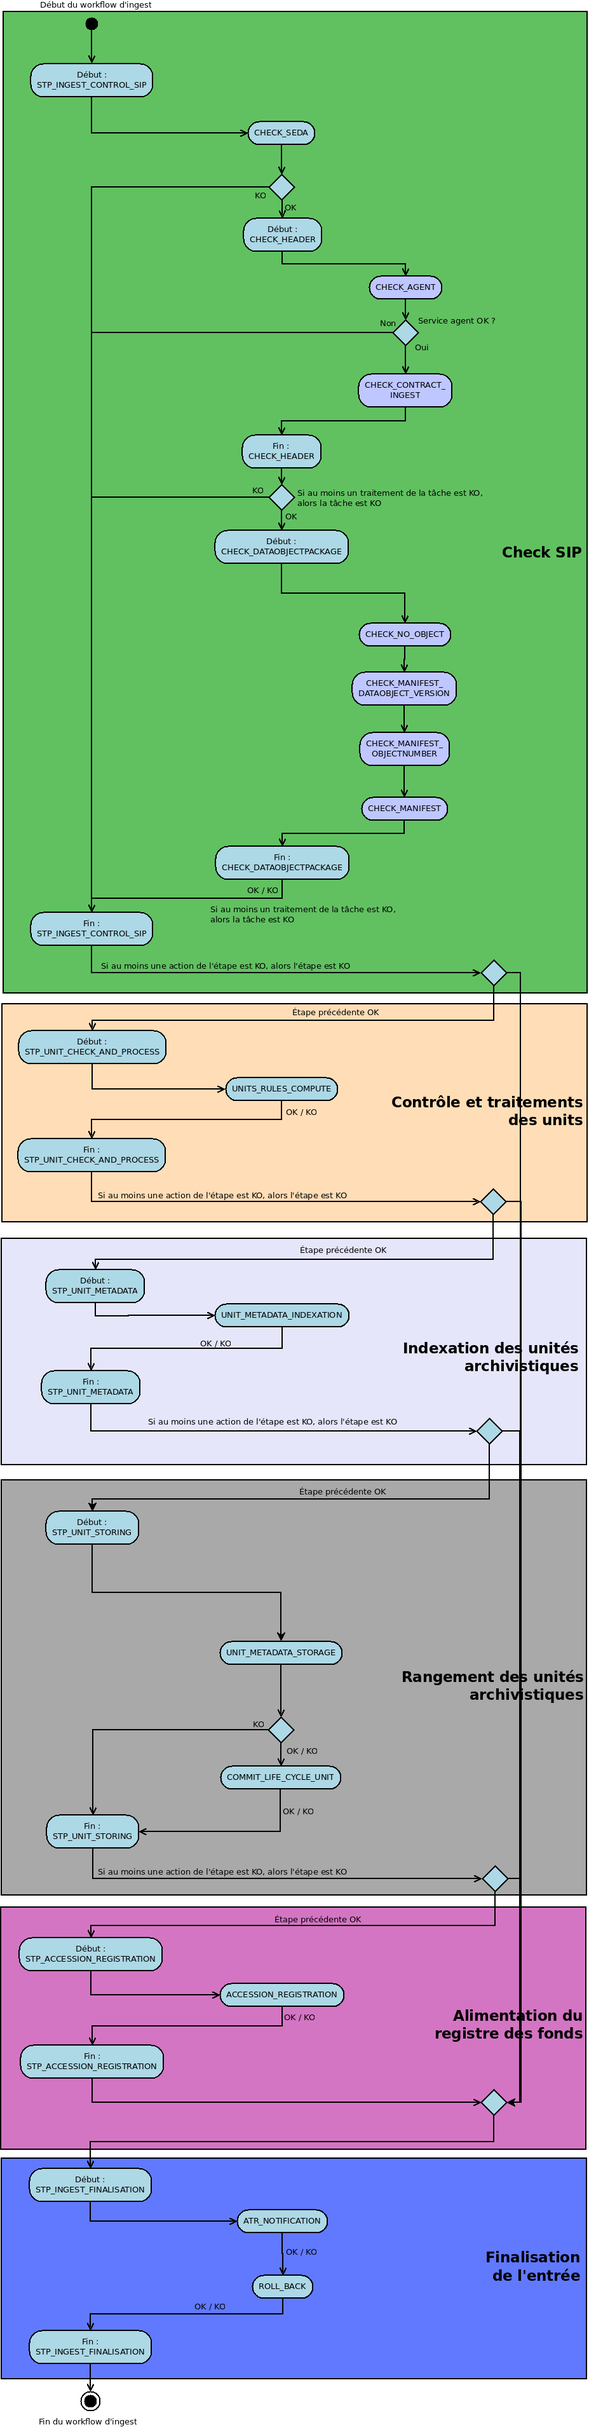
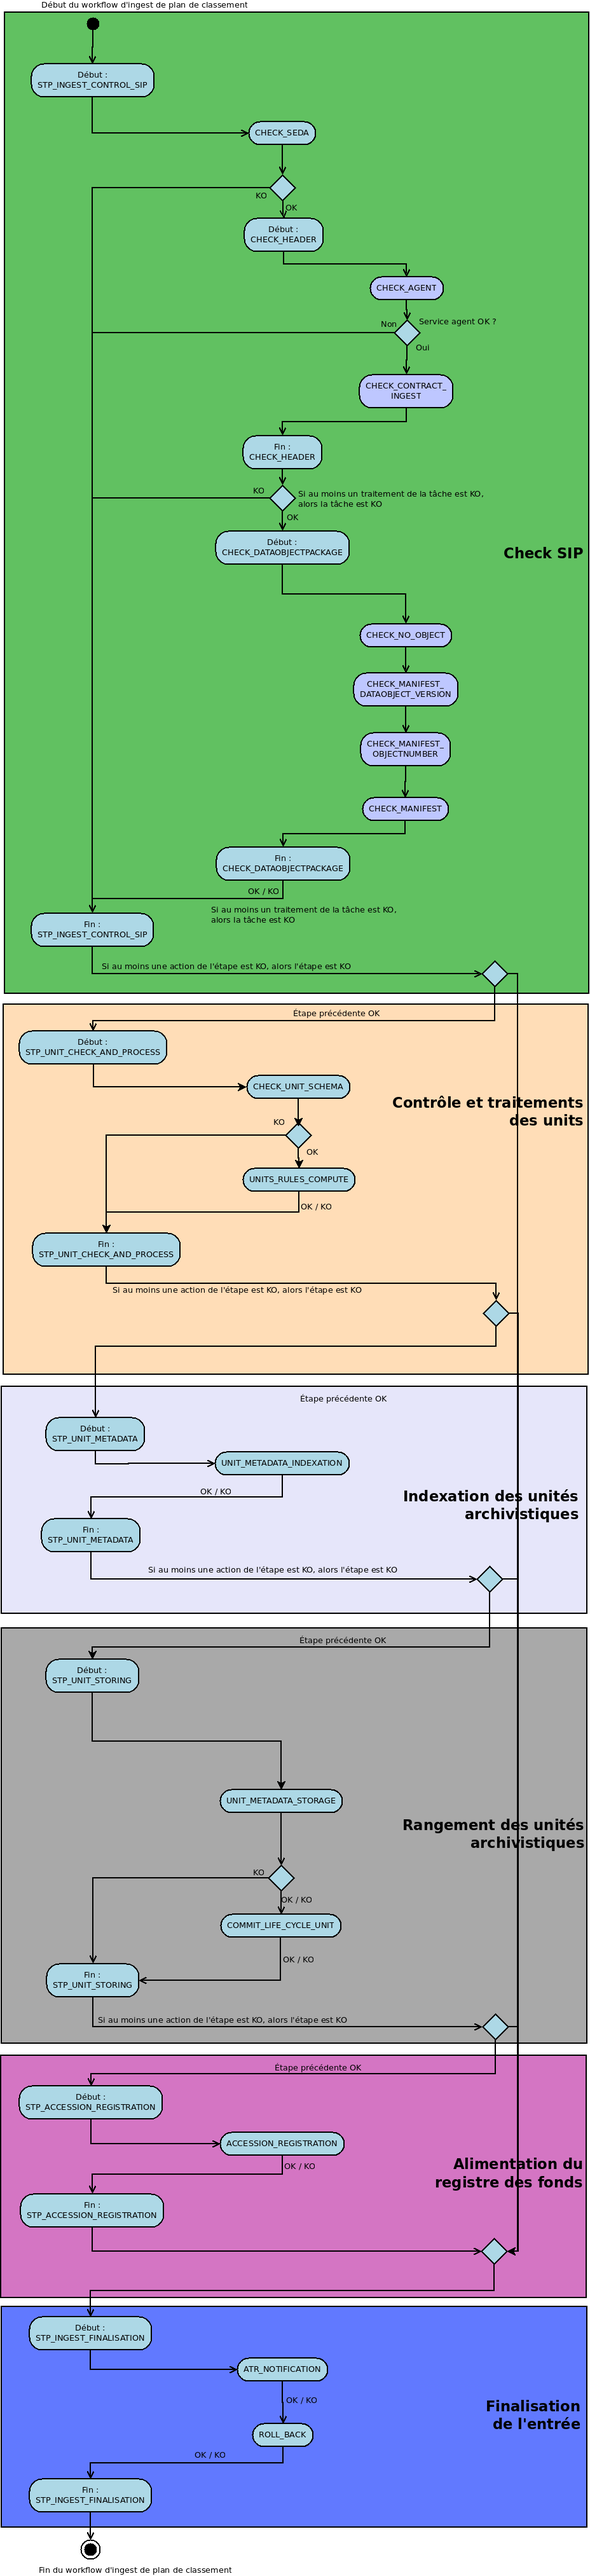
Filing_Scheme workflow Schema update
Holding_Scheme workflow Schema update

diff --git a/doc/fr/workflow-model/masterdata/workflow-tree.rst b/doc/fr/workflow-model/masterdata/workflow-tree.rst
@@ -32,3 +32,6 @@ Traitement additionnel dans la tâche CHECK_DATAOBJECTPACKAGE
     - KO : des objets numériques sont présent dans le bordereau de transfert (CHECK_DATAOBJECTPACKAGE.CHECK_NO_OBJECT.KO=Échec de la vérification de l'absence d'objet : objet(s) trouvé(s))
 
     - FATAL : une erreur technique est survenue lors de la vérification de la non existence d'objet numérique (CHECK_DATAOBJECTPACKAGE.CHECK_NO_OBJECT.FATAL=Erreur fatale lors de la vérification de l'absence d'objet)
+    
+.. image:: images/Workflow_HoldingScheme.jpg
+    :align: center
